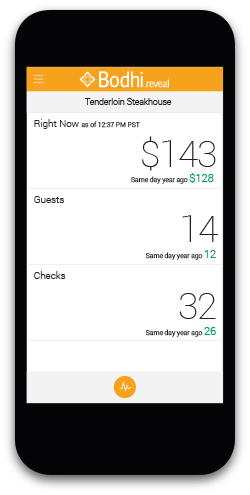
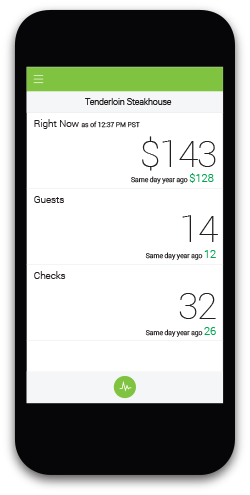
redesign

Changed region(s): [[0.084, 0.1212, 0.896, 0.2121], [0.448, 0.7576, 0.56, 0.8182], [0.084, 0.7576, 0.112, 0.8182]]

diff --git a/css/styles-download.css b/css/styles-download.css
@@ -6,16 +6,19 @@ html, body {
 	font-family: Roboto, sans-serif;
 	font-weight: 300;
 	background-color: #F2F2F3;
-	max-width: 1024px;
-	max-height: 768px;
 	margin: 0 auto;
 }
 
 .container {
 	-ms-zoom: 0.73;
 	zoom: 0.73;
-	width: 1100px;
-	position: relative; }
+	position: relative;
+}
+
+.container .row{
+	margin-left: 0px;
+	margin-right: 0px;
+}
 
 .navbar-bodhi {
     height: 55px;
@@ -67,21 +70,19 @@ html, body {
 
 .content {
 	position: relative;
-	margin-top: 60px;
-	margin-left: 25px;
 	z-index: 1;
 	width: 1050px;
-	background-color: #F7FAFC;
 	border-bottom: 1px solid rgb(221, 221, 223); }
 
 	.content .content_header {
+		font-family: Oswald;
 		font-size: 52px;
-		font-weight: 100;
+		font-weight: 400;
+		color: white;
 		line-height: 62px;
 		padding: 20px 0px;
-		background-color: white;	
-		border-top: 5px solid #E6E9EB; 
-		border-bottom: 1px solid rgb(221, 221, 223); 
+		margin-right: 300px;
+		text-align: center;
 	}
 
 	.content_header p {
@@ -90,18 +91,33 @@ html, body {
 
 	.content .iphone {
 		position: absolute;
-		left: 725px;
+		left: 800px;
 		top: 40px;
 	}
 
 	.content .install {
-		margin: 25px 50px;
+		margin: 25px 25px;
+		text-align: center;
 	}
 
 	.content .note {
+		font-family: Raleway;
 		font-size: 28px;
 		line-height: 34px;
-		font-weight: 100;
+		margin-right: 280px;
+		color: white;
+		font-weight: 200;
+		text-align: center;
+	}
+
+	.content .note-medium {
+		font-family: Raleway;
+		font-size: 21px;
+		line-height: 48px;
+		margin-right: 280px;
+		color: white;
+		font-weight: 200;
+		text-align: center;
 	}
 
 	.content .download {
@@ -110,7 +126,8 @@ html, body {
 		margin-top: 10px;
 		margin-bottom: 10px;
 		border-radius: 10px;
-		background-color: #FAA21D;
+		background-color: white;
+		margin-right: 280px;
 	}
 
 	.content .install img {
@@ -119,24 +136,28 @@ html, body {
 		left: 10px;
 		float: left;
 		height: 38px;
+		text-align: center;
 	}
 
 	.content .largeNote {
+		font-family: Raleway;
 		font-size: 28px;
 		font-weight: 100;
-		color: white;
+		color: #FAA21D;
 		line-height: 34px;
 	}
 
 	.content .smallNote {
+		font-family: Raleway;
 		font-size: 18px;
 		margin-right: 12px;
+		color: #FAA21D;
 	}
 
 .after {
 	position: absolute;
 	text-align: center;
-	top: 135px;
+	top: 84px;
 	z-index: 0; }
 
 	.after .content_header {
@@ -155,7 +176,7 @@ html, body {
 	margin-bottom: 95px;
 	width: 1050px;
 	margin-left: 12px;
-	top: 150px;
+	top: 50px;
 	font-size: 21px;
 	line-height: 60px;
 	height: 190px;
@@ -209,6 +230,30 @@ html, body {
 	text-align: center;
 	position: relative;
 	top: 45px; }
+
+.right-margin-0{
+	margin-right: 0px !important;
+}
+
+.head-hotschedules {
+	height: 80px;
+	padding: 25px;
+	margin-top: 2px;
+	background-color: white;
+	border-left: 1px solid #c0c0c0; 
+	border-top: 1px solid #c0c0c0; 
+	border-right: 1px solid #c0c0c0; 
+	border-width: 1px;
+	width: 1050px;
+}
+
+.head-hotschedules .phone{
+	margin-top: 6px;
+	color: #a0a0a0;
+	font-family: Raleway;
+	font-size: 21px;
+	font-weight: 400;
+}
 
 .footer {
     height: 40px;

diff --git a/download/index.html b/download/index.html
@@ -6,7 +6,8 @@
     <link rel="stylesheet" type="text/css" href="../css/styles-download.css">
     <link rel="stylesheet" type="text/css" href="../css/styles.css">
     <link rel="stylesheet" type="text/css" href="https://fonts.googleapis.com/css?family=Roboto:400,300,100">
-
+    <link rel="stylesheet" type="text/css" href="https://fonts.googleapis.com/css?family=Oswald:400,300,100">
+    <link rel="stylesheet" type="text/css" href="https://fonts.googleapis.com/css?family=Raleway:400,300,100">
 
     <script type="text/javascript" src="https://cdnjs.cloudflare.com/ajax/libs/jquery/2.1.3/jquery.js"></script>
     <script src="../js/bootstrap.js" type="js/javascript"></script>
@@ -46,6 +47,10 @@
     <!-- End Navigation -->
 
 <div class="container">
+    <div class="head-hotschedules row">
+        <img style="padding-left: 20px;" alt="Logo" src="../assets/icon-hsc.png" height="40px">
+        <span class="pull-right phone">Call 877-741-9610 - get support</span>
+    </div>
     <div class='row'>
         <div class="content first">
             <div class="content_header">
@@ -57,8 +62,16 @@
             <div class="install">
                 <div class="note">
                     Download and install the Bodhi Agent on your POS.
-                    <br>
                     Then install Bodhi Mobile on your mobile device.
+                </div>
+
+                <div class="note-medium">
+                    </br>
+                    1. Download the HotSchedules Agent from hotschedulesagent.download.com 
+                    </br>
+                    2. On your POS system, run the install wizard until you see the activation code
+                    </br>
+                    3. Enter the activation codes in the Store Display screen. That's it!
                 </div>
 
                 <button class="download">
@@ -74,14 +87,14 @@
     </div>
     <div class='row'>
         <div class="content after">
-            <div class="content_header">
-                Thanks for downloading the Bodhi Agent!
+            <div class="content_header right-margin-0">
+                THANKS FOR DOWNLOADING THE HOTSCHEDULES AGENT
             </div>
 
 
             <div class="install">
-                <div class="note">
-                    Make sure to download and install Bodhi Mobile on your device.
+                <div class="right-margin-0 note">
+                    Make sure to download and install HotSchedules Mobile on your device
                 </div>
             </div>
         </div>

diff --git a/css/styles.css b/css/styles.css
@@ -41,6 +41,15 @@ body {
 	padding-bottom: 4px;
 }
 
+.head-hotschedules {
+	height: 80px;
+	padding: 25px;
+	margin-top: 2px;
+	border-color: #a0a0a0;
+	border-width: 1px;
+	background-color: white;
+}
+
 .navbar-bodhi .nav>li>a:focus, .navbar-bodhi .nav>li>a:hover {
     background-color: #FAA21D;
 }
@@ -72,7 +81,7 @@ body {
 }
 
 .container .content {
-	background-color: #F7FAFC;
+	background-color: #99cc00;
 }
 
 .container .content .header {
@@ -155,7 +164,7 @@ text-align: right;
 }
 
 .stores {
-	float: left;
+	float: center;
 	margin-bottom: 20px;
 }
 
@@ -181,7 +190,7 @@ text-align: right;
 
 @media (min-width:992px) {
 	.navbar-bodhi .container-fluid, .container {
-		width: 980px;
+
 	}
 
 	.navbar-bodhi .container-fluid {
